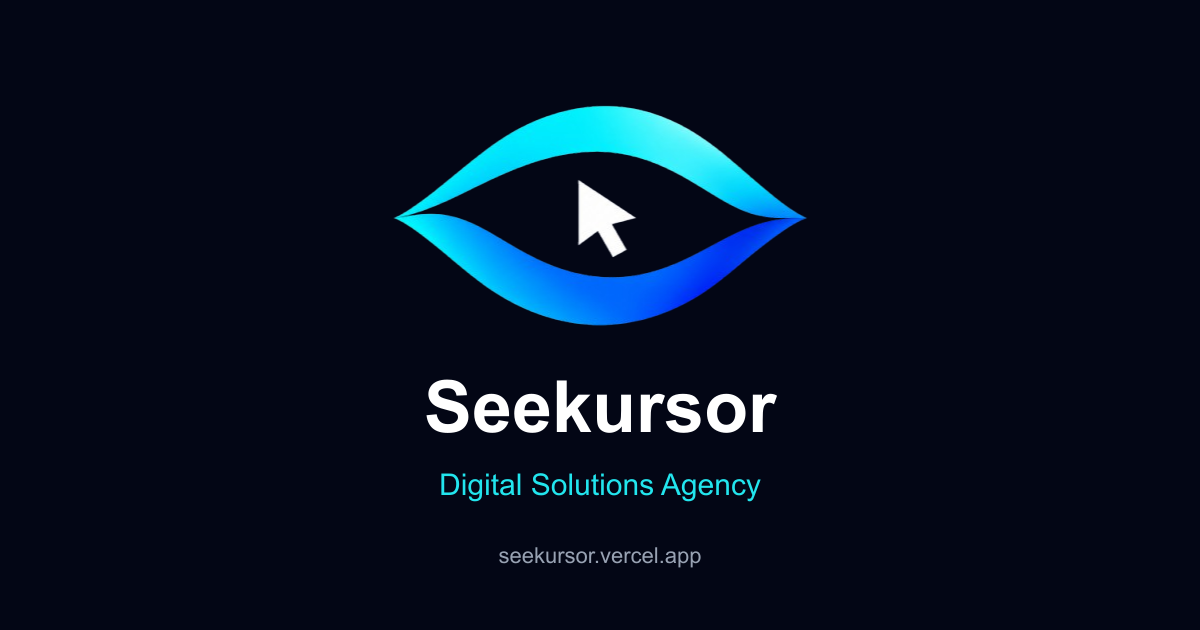
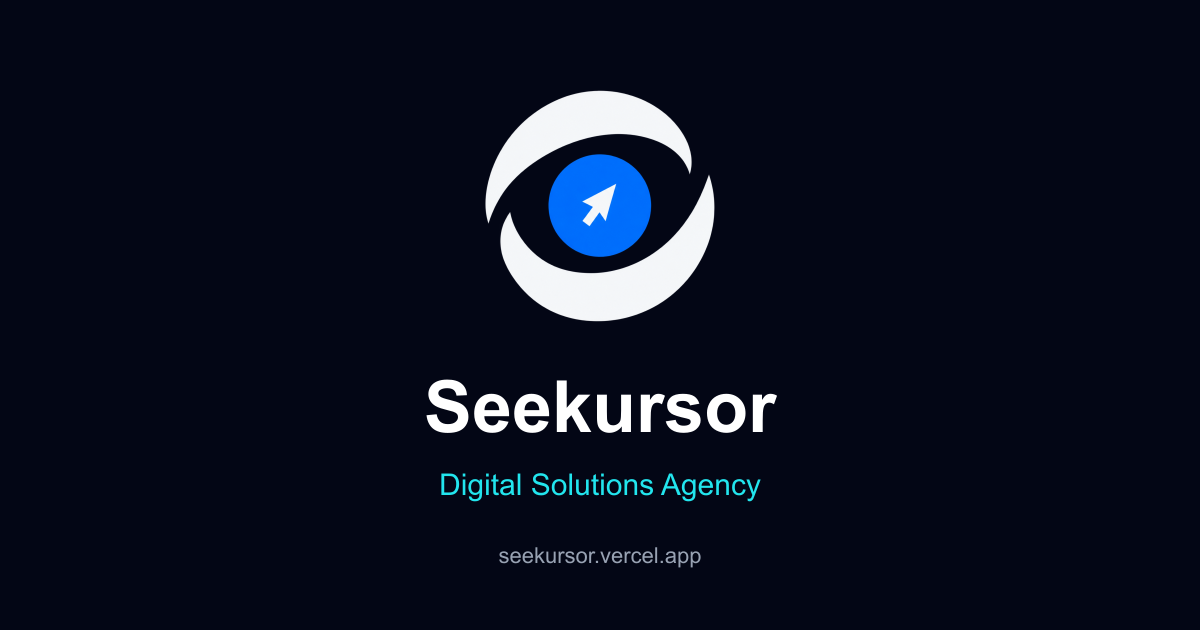
Apply theme-aware aperture branding and official Seekursor socials

Changed region(s): [[0.3083, 0.1206, 0.6783, 0.5429]]

diff --git a/src/lib/seo.ts b/src/lib/seo.ts
@@ -13,7 +13,7 @@ export function publicOrigin(value = siteConfig.domain): string {
 }
 
 // Update only when these pages materially change; never use the build/request time.
-export const contentLastModified = "2026-10-26";
+export const contentLastModified = "2026-10-30";
 
 type Locale = (typeof routing.locales)[number];
 type MetadataCopy = {
@@ -36,11 +36,11 @@ export function pageMetadata(locale: Locale, copy: MetadataCopy): Metadata {
     alternates: { canonical: url, languages: { ...languages, "x-default": `${origin}/fr` } },
     icons: {
       icon: [
-        { url: "/brand/favicon.ico", sizes: "16x16 32x32 48x48", type: "image/x-icon" },
-        { url: "/brand/icon-48.png", sizes: "48x48", type: "image/png" },
-        { url: "/brand/icon-512.png", sizes: "512x512", type: "image/png" },
+        { url: "/brand/seekursor-favicon.ico", sizes: "16x16 32x32 48x48", type: "image/x-icon" },
+        { url: "/brand/seekursor-icon-48.png", sizes: "48x48", type: "image/png" },
+        { url: "/brand/seekursor-icon-512.png", sizes: "512x512", type: "image/png" },
       ],
-      apple: [{ url: "/brand/icon-180.png", sizes: "180x180", type: "image/png" }],
+      apple: [{ url: "/brand/seekursor-icon-180.png", sizes: "180x180", type: "image/png" }],
     },
     openGraph: {
       type: "website", siteName: siteConfig.name, url,
@@ -61,11 +61,11 @@ export function brandStructuredData(copy: { structuredDescription: string; found
       {
         "@type": "Organization", "@id": `${origin}/#organization`,
         name: siteConfig.name, url: origin,
-        logo: { "@type": "ImageObject", "@id": `${origin}/#logo`, url: `${origin}/brand/icon-512.png`, width: 512, height: 512 },
+        logo: { "@type": "ImageObject", "@id": `${origin}/#logo`, url: `${origin}/brand/seekursor-icon-512.png`, width: 512, height: 512 },
         description: copy.structuredDescription,
         telephone: siteConfig.phoneLabel.replace(/\s/g, ""),
         ...(siteConfig.email ? { email: siteConfig.email } : {}),
-        ...(siteConfig.instagramUrl ? { sameAs: [siteConfig.instagramUrl] } : {}),
+        sameAs: [siteConfig.instagramUrl, siteConfig.tiktokUrl],
         areaServed: { "@type": "Country", name: "Haiti" },
         founder: { "@type": "Person", name: siteConfig.founderName, jobTitle: copy.founderRole },
       },

diff --git a/src/components/Footer.tsx b/src/components/Footer.tsx
@@ -7,6 +7,7 @@ import type { OpenAcquisition } from "../lib/acquisition";
 import { Link } from "../i18n/navigation";
 import { followSection } from "../lib/sectionNavigation";
 import { BrandLockup } from "./BrandLockup";
+import { TikTokIcon } from "./TikTokIcon";
 export function Footer({ onAcquire }: { onAcquire: OpenAcquisition }) {
   const config = useSeekursorConfig();
   const contact = config.contact;
@@ -40,11 +41,15 @@ export function Footer({ onAcquire }: { onAcquire: OpenAcquisition }) {
             )}
             <div className="flex flex-col items-start gap-2">
               {contact.instagramUrl && (
-                <a className="inline-flex min-h-9 items-center gap-2 hover:text-brand-ink"
+                <a className="inline-flex min-h-11 items-center gap-2 hover:text-brand-ink"
                   href={contact.instagramUrl} target="_blank" rel="noopener noreferrer">
-                  <Instagram size={16} aria-hidden="true" /> Instagram
+                  <Instagram size={16} aria-hidden="true" /> Instagram <span className="text-ink-muted">@seekursor</span>
                 </a>
               )}
+              <a className="inline-flex min-h-11 items-center gap-2 hover:text-brand-ink"
+                href={contact.tiktokUrl} target="_blank" rel="noopener noreferrer">
+                <TikTokIcon /> TikTok <span className="text-ink-muted">@seekursor</span>
+              </a>
               {acquisitionConfig.whatsappNumber && (
                 <a className="inline-flex min-h-9 items-center gap-2 hover:text-brand-ink"
                   href={`tel:+${acquisitionConfig.whatsappNumber}`}>

diff --git a/src/components/BrandLockup.tsx b/src/components/BrandLockup.tsx
@@ -1,6 +1,9 @@
 import { siteConfig } from "../data/siteConfig";
 import { cn } from "@/lib/utils";
 
+const logoSources = (url: string) => [40, 80, 120, 256]
+  .map(width => `${url.replace(".png", `-${width}.webp`)} ${width}w`).join(", ");
+
 export function BrandLockup({ className }: { className?: string }) {
   return (
     <span
@@ -8,13 +11,23 @@ export function BrandLockup({ className }: { className?: string }) {
     >
       <img
         src={siteConfig.logo}
-        srcSet="/brand/seekursor-eye-76.webp 76w, /brand/seekursor-eye-152.webp 152w, /brand/seekursor-eye-228.webp 228w, /brand/seekursor-eye-415.webp 415w"
-        sizes="(min-width: 640px) 68px, (max-width: 360px) 48px, 56px"
+        srcSet={logoSources(siteConfig.logo)}
+        sizes="(min-width: 640px) 40px, 36px"
         alt="Seekursor logo"
-        width="76"
+        width="40"
         height="40"
         decoding="async"
-        className="h-9 w-16 shrink-0 rounded-lg bg-[#030615] object-contain p-1 max-[360px]:w-14 sm:h-10 sm:w-[76px]"
+        className="block size-9 shrink-0 object-contain sm:size-10 dark:hidden"
+      />
+      <img
+        src={siteConfig.logoDark}
+        srcSet={logoSources(siteConfig.logoDark)}
+        sizes="(min-width: 640px) 40px, 36px"
+        alt="Seekursor logo"
+        width="40"
+        height="40"
+        decoding="async"
+        className="hidden size-9 shrink-0 object-contain sm:size-10 dark:block"
       />
       <span className="font-display text-lg font-semibold tracking-tight text-ink">
         Seekursor

diff --git a/src/components/TikTokIcon.tsx b/src/components/TikTokIcon.tsx
@@ -1,0 +1,8 @@
+// TikTok mark from Simple Icons (CC0): https://github.com/simple-icons/simple-icons/blob/develop/icons/tiktok.svg
+export function TikTokIcon() {
+  return (
+    <svg width="16" height="16" viewBox="0 0 24 24" fill="currentColor" aria-hidden="true" focusable="false">
+      <path d="M12.525.02c1.31-.02 2.61-.01 3.91-.02.08 1.53.63 3.09 1.75 4.17 1.12 1.11 2.7 1.62 4.24 1.79v4.03c-1.44-.05-2.89-.35-4.2-.97-.57-.26-1.1-.59-1.62-.93-.01 2.92.01 5.84-.02 8.75-.08 1.4-.54 2.79-1.35 3.94-1.31 1.92-3.58 3.17-5.91 3.21-1.43.08-2.86-.31-4.08-1.03-2.02-1.19-3.44-3.37-3.65-5.71-.02-.5-.03-1-.01-1.49.18-1.9 1.12-3.72 2.58-4.96 1.66-1.44 3.98-2.13 6.15-1.72.02 1.48-.04 2.96-.04 4.44-.99-.32-2.15-.23-3.02.37-.63.41-1.11 1.04-1.36 1.75-.21.51-.15 1.07-.14 1.61.24 1.64 1.82 3.02 3.5 2.87 1.12-.01 2.19-.66 2.77-1.61.19-.33.4-.67.41-1.06.1-1.79.06-3.57.07-5.36.01-4.03-.01-8.05.02-12.07z" />
+    </svg>
+  );
+}

diff --git a/src/data/siteConfig.ts b/src/data/siteConfig.ts
@@ -1,10 +1,13 @@
 // Public business values are shared by metadata and client components.
 export const siteConfig = {
   name: "Seekursor",
-  logo: "/brand/seekursor-eye.png",
+  logo: "/brand/seekursor-mark-light.png",
+  logoDark: "/brand/seekursor-mark-dark.png",
   founderName: "Harly Thelusma",
   phoneLabel: "+509 47 10 94 01",
   email: process.env.NEXT_PUBLIC_CONTACT_EMAIL?.trim() || "",
-  instagramUrl: process.env.NEXT_PUBLIC_INSTAGRAM_URL?.trim() || "",
+  // Public brand identities are versioned here so an old deployment env value cannot restore a personal profile.
+  instagramUrl: "https://www.instagram.com/seekursor/",
+  tiktokUrl: "https://www.tiktok.com/@seekursor",
   domain: process.env.NEXT_PUBLIC_SITE_URL?.trim() || "https://seekursor.vercel.app",
 };

diff --git a/tests/seo.test.ts b/tests/seo.test.ts
@@ -39,7 +39,7 @@ for (const [locale, messages] of Object.entries({ fr, en, ht })) {
     assert.equal(organization.url, publicOrigin());
     assert.equal(organization.telephone, "+50947109401");
     assert.equal(organization.areaServed?.name, "Haiti");
-    assert.deepEqual(organization.sameAs, siteConfig.instagramUrl ? [siteConfig.instagramUrl] : undefined);
+    assert.deepEqual(organization.sameAs, ["https://www.instagram.com/seekursor/", "https://www.tiktok.com/@seekursor"]);
     assert.equal(organization.email, siteConfig.email || undefined);
     assert.ok(!("address" in organization) && !("review" in organization) && !("aggregateRating" in organization));
     assert.equal(organization.logo?.width, 512);

diff --git a/README.md b/README.md
@@ -35,7 +35,11 @@ See [acquisition setup](docs/acquisition-setup.md) for configuration, account se
 
 ## Brand and presentation
 
-The approved eye-and-cursor logo is stored in `public/brand/seekursor-eye.png`, trimmed and encoded losslessly from the supplied transparent PNG. The shared brand lockup gives its white cursor a compact navy backing for contrast in both themes. Dedicated PNG/ICO favicons and an Apple touch icon live in the same folder. Regenerate these assets with `node scripts/prepare-brand-assets.cjs <path-to-approved-transparent-png>`; this uses the existing Sharp dependency and preserves the source logo colors. Headings use Space Grotesk; body and UI use Inter. Theme tokens are in `src/index.css`. Translation files supply content through `src/data/seekursorConfig.ts` and next-intl.
+The approved circular aperture-and-cursor mark comes from `LastVersionLogo.png`. The shared brand lockup uses transparent black/light-mode and white/dark-mode variants in `public/brand/seekursor-mark-{light,dark}.png`; CSS follows the site's existing manual theme preference before paint. The blue iris is retained in both modes, with no background badge. Dedicated `seekursor-icon-*` PNGs, `seekursor-favicon.ico` and an Apple touch icon use the same mark. Root favicon aliases are also updated. Headings use Space Grotesk; body and UI use Inter. Theme tokens are in `src/index.css`. Translation files supply content through `src/data/seekursorConfig.ts` and next-intl.
+
+Original-size transparent exports and their imagegen prompts are saved beside the approved source in the agency project's `output/imagegen/` folder as `LastVersionLogo-light-transparent.png`, `LastVersionLogo-dark-transparent.png` and `LastVersionLogo-variants.prompt.json`. The original file is preserved. Web exports can be regenerated from the checked-in PNG pair with `node scripts/prepare-brand-assets.cjs public/brand/seekursor-mark-light.png public/brand/seekursor-mark-dark.png`; the existing Sharp dependency applies one shared crop, lossless responsive WebP encoding and icon sizing.
+
+The official Instagram (`https://www.instagram.com/seekursor/`) and TikTok (`https://www.tiktok.com/@seekursor`) contact references are maintained in `src/data/siteConfig.ts` and shared by footer links and Organization schema. Historical `NEXT_PUBLIC_INSTAGRAM_URL` environment values no longer override these public brand identities. WhatsApp, booking and project inquiry destinations retain their existing configuration and hierarchy.
 
 Regenerate the three localized 1200×630 share cards with `node scripts/prepare-social-images.cjs`. Metadata and the Organization/WebSite graph share `src/lib/seo.ts`; the graph appears once in the locale layout head. Only known public business facts are included. No verification tags are emitted without supplied Google/Bing tokens.
 

diff --git a/docs/acquisition-setup.md b/docs/acquisition-setup.md
@@ -14,7 +14,7 @@ Copy `.env.example` to `.env.local` and populate:
 
 These are public identifiers. Never place API tokens, email-provider keys or webhook secrets in NEXT_PUBLIC variables. Invalid or missing destinations show a visitor-friendly availability dialog. The supplied URL must be a published public destination; its query string is discarded. Tracking is added from the explicit allowlist below. Custom provider domains are outside this first integration.
 
-Optional existing `NEXT_PUBLIC_CONTACT_EMAIL`, `NEXT_PUBLIC_INSTAGRAM_URL` and `NEXT_PUBLIC_SITE_URL` remain supported. Restart `npm run dev` after changing environment values. Production deployments must rebuild with the public values present.
+Optional `NEXT_PUBLIC_CONTACT_EMAIL` and `NEXT_PUBLIC_SITE_URL` remain supported. The official Instagram and TikTok profile URLs are maintained together in `src/data/siteConfig.ts` and shared by the footer and Organization schema. Legacy `NEXT_PUBLIC_INSTAGRAM_URL` values are no longer read. Restart `npm run dev` after changing environment values. Production deployments must rebuild with the public values present.
 
 ## WhatsApp
 

diff --git a/docs/seo-audit.md b/docs/seo-audit.md
@@ -1,5 +1,7 @@
 # Seekursor technical SEO audit
 
+Historical snapshot: the results below describe the 26 October audit. The 30 October branding update replaces the old eye mark with the approved `LastVersionLogo` aperture mark, adds theme-specific transparent assets and changes the linked/schema social identities to Instagram `@seekursor` and TikTok `@seekursor`. See the README for current asset names and configuration; earlier URLs and measurements below are retained as audit history.
+
 Audited 26 October 2026 (America/Port-au-Prince). Work is local on `seo-audit`; nothing was pushed, deployed or changed in Vercel. This improves crawlability and identity signals; it cannot guarantee a Google ranking, favicon display or knowledge panel.
 
 ## Discovery and verified inputs

diff --git a/docs/copy/landing-page.fr.md b/docs/copy/landing-page.fr.md
@@ -398,7 +398,9 @@ Basé en Haïti · Ouvert à d'autres marchés
 
 Restons en contact
 
-Instagram
+Instagram @seekursor
+
+TikTok @seekursor
 
 +509 47 10 94 01
 

diff --git a/docs/copy/landing-page.en.md b/docs/copy/landing-page.en.md
@@ -398,7 +398,9 @@ Based in Haiti · Open to other markets
 
 Let’s stay in touch
 
-Instagram
+Instagram @seekursor
+
+TikTok @seekursor
 
 +509 47 10 94 01
 

diff --git a/docs/copy/landing-page.ht.md b/docs/copy/landing-page.ht.md
@@ -398,7 +398,9 @@ Baze ann Ayiti · Ouvè pou lòt mache
 
 Ann rete an kontak
 
-Instagram
+Instagram @seekursor
+
+TikTok @seekursor
 
 +509 47 10 94 01
 
